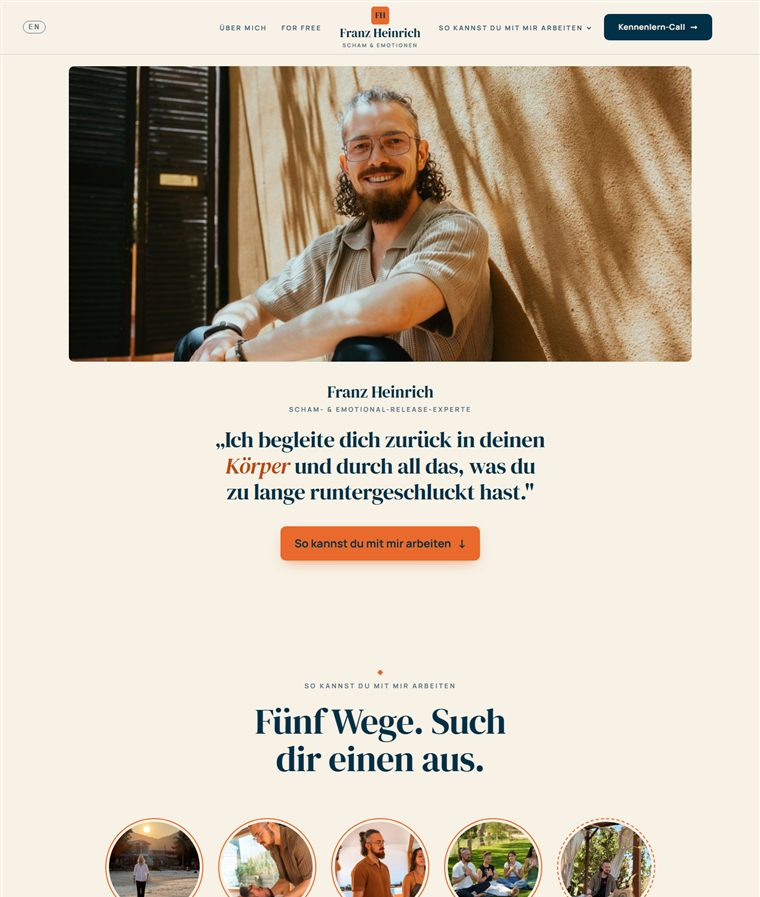
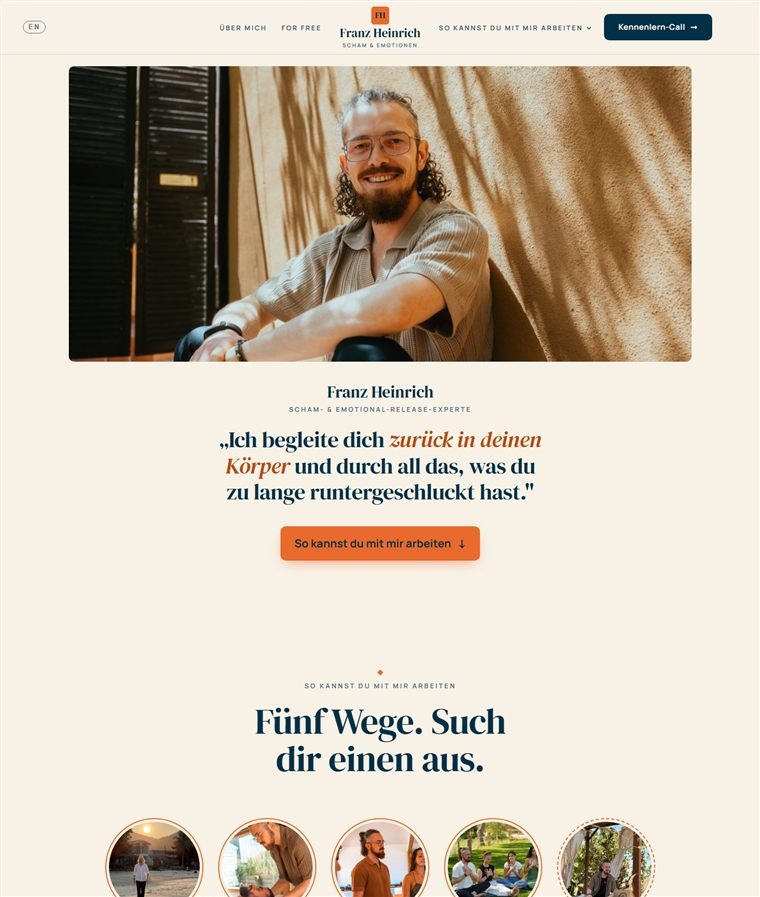
Kopf-Zitat: "zurueck in deinen Koerper" komplett in Orange (DE + EN), Vorschaubilder neu

Changed region(s): [[0.2724, 0.4682, 0.7263, 0.5307]]

diff --git a/index.html b/index.html
@@ -145,7 +145,7 @@
     <p class="kopf-name in-up" style="--d:.15s">Franz Heinrich</p>
     <p class="kopf-rolle in-up" style="--d:.25s" data-t="hero.role">Scham- &amp; Emotional-Release-Experte</p>
     <!-- HIER: Franz' Zitat — Wortlaut von Michael, 16.09. -->
-    <h1 class="in-up" style="--d:.4s" data-t="hero.h1">„Ich begleite dich zurück in deinen <em>Körper</em> und durch all das,
+    <h1 class="in-up" style="--d:.4s" data-t="hero.h1">„Ich begleite dich <em>zurück in deinen Körper</em> und durch all das,
       was du zu lange runtergeschluckt hast."</h1>
     <a class="btn btn-orange btn-down in-up" href="#arbeiten" style="--d:.55s" data-t="hero.cta">So kannst du mit mir arbeiten</a>
   </div>

diff --git a/assets/i18n-en.js b/assets/i18n-en.js
@@ -17,7 +17,7 @@ window.FH_EN = {
   "dd.frei.t": "Free", "dd.frei.s": "Podcast, handbook, newsletter",
 
   "hero.role": "Shame & Emotional Release Expert",
-  "hero.h1": "“I guide you back into your <em>body</em> and through everything you have swallowed for too long.”",
+  "hero.h1": "“I guide you <em>back into your body</em> and through everything you have swallowed for too long.”",
   "hero.cta": "Ways to work with me",
 
   "work.eyebrow": "Ways to work with me",
